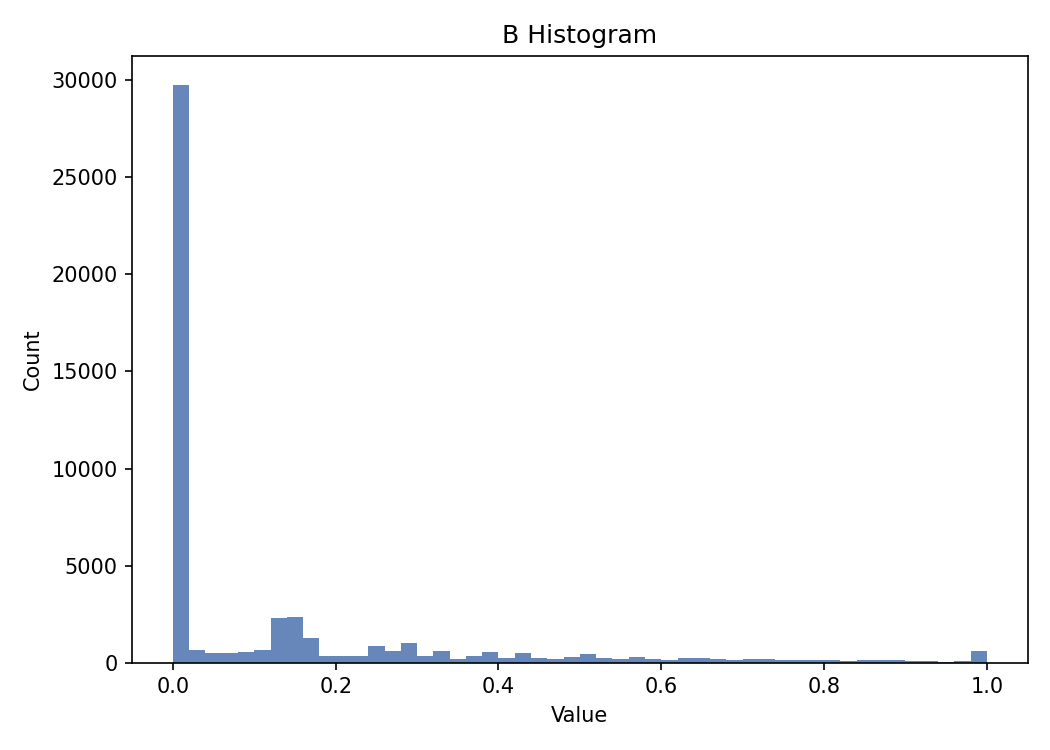
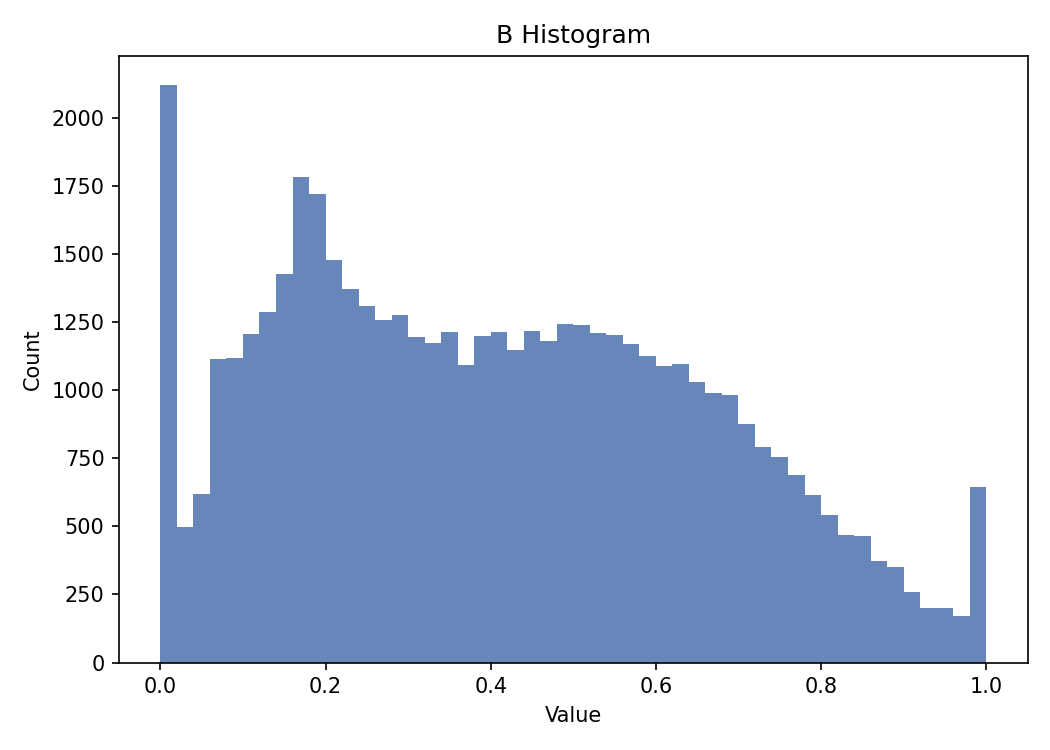
weight optimization

diff --git a/z.py b/z.py
@@ -51,7 +51,9 @@ def _to_full(scores: np.ndarray, indices: np.ndarray, n: int) -> np.ndarray:
     return full
 
 
-def _compute_components(proxy_log: Path) -> tuple[dict[str, np.ndarray], np.ndarray]:
+def _compute_components(
+    proxy_log: Path,
+) -> tuple[dict[str, np.ndarray], np.ndarray, np.ndarray, np.ndarray, np.ndarray]:
     absorption_res = AbsorptionEfficiencyScore(proxy_log).compute()
     informativeness_res = InformativenessScore(proxy_log).compute()
     coverage_res = CoverageGainScore(proxy_log).compute()
@@ -69,15 +71,21 @@ def _compute_components(proxy_log: Path) -> tuple[dict[str, np.ndarray], np.ndar
 
     n = absorption_res.labels.shape[0]
     a_full = _to_full(absorption_res.scores, absorption_res.indices, n)
+    a_raw_full = _to_full(absorption_res.raw_score, absorption_res.indices, n)
     b_full = _to_full(informativeness_res.scores, informativeness_res.indices, n)
+    b_raw_full = _to_full(informativeness_res.raw_score, informativeness_res.indices, n)
     c_full = _to_full(coverage_res.scores, coverage_res.indices, n)
     r_full = _to_full(risk_res.scores, risk_res.indices, n)
+    r_raw_full = _to_full(risk_res.raw_score, risk_res.indices, n)
 
     if (
         np.any(np.isnan(a_full))
+        or np.any(np.isnan(a_raw_full))
         or np.any(np.isnan(b_full))
+        or np.any(np.isnan(b_raw_full))
         or np.any(np.isnan(c_full))
         or np.any(np.isnan(r_full))
+        or np.any(np.isnan(r_raw_full))
     ):
         raise RuntimeError("Failed to align some dynamic scores to full index space (NaNs found).")
 
@@ -90,7 +98,28 @@ def _compute_components(proxy_log: Path) -> tuple[dict[str, np.ndarray], np.ndar
         "R": r_full.astype(np.float32),
         "u": u_norm.astype(np.float32),
     }
-    return components, absorption_res.labels.astype(np.int64)
+    return (
+        components,
+        a_raw_full.astype(np.float32),
+        b_raw_full.astype(np.float32),
+        r_raw_full.astype(np.float32),
+        absorption_res.labels.astype(np.int64),
+    )
+
+
+def _print_quantiles(values: np.ndarray, name: str) -> None:
+    quantiles = [0, 1, 5, 25, 50, 75, 95, 99, 100]
+    percentiles = np.percentile(values, quantiles)
+    print(f"\n{name} quantiles:")
+    for q, v in zip(quantiles, percentiles, strict=True):
+        print(f"  p{q:02d}: {v: .6f}")
+
+
+def _print_zero_one_counts(values: np.ndarray, name: str) -> None:
+    zero_count = int(np.sum(values == 0.0))
+    one_count = int(np.sum(values == 1.0))
+    print(f"{name} exact 0 count: {zero_count}")
+    print(f"{name} exact 1 count: {one_count}")
 
 
 def _rankdata(values: np.ndarray) -> np.ndarray:
@@ -132,7 +161,7 @@ def main() -> None:
     if not proxy_log.exists():
         raise FileNotFoundError(f"Proxy log not found: {proxy_log}")
 
-    arrays, labels = _compute_components(proxy_log)
+    arrays, a_raw, b_raw, r_raw, labels = _compute_components(proxy_log)
     num_samples = labels.shape[0]
     for key, values in arrays.items():
         if values.shape[0] != num_samples:
@@ -147,6 +176,15 @@ def main() -> None:
         fig.tight_layout()
         fig.savefig(out_dir / f"hist_{name}.png", dpi=150)
         plt.close(fig)
+
+    fig, ax = plt.subplots(figsize=(7, 5))
+    ax.hist(b_raw, bins=args.bins, color="#55A868", alpha=0.85)
+    ax.set_title("B_raw Histogram")
+    ax.set_xlabel("Value")
+    ax.set_ylabel("Count")
+    fig.tight_layout()
+    fig.savefig(out_dir / "hist_B_raw.png", dpi=150)
+    plt.close(fig)
 
     fig, axes = plt.subplots(2, 3, figsize=(12, 7))
     axes = axes.ravel()
@@ -166,6 +204,13 @@ def main() -> None:
 
     print(f"Loaded proxy log: {proxy_log}")
     print(f"Saved histogram plots to: {out_dir}")
+    _print_quantiles(arrays["A"], "A_score")
+    _print_quantiles(a_raw, "A_raw")
+    _print_quantiles(b_raw, "B_raw")
+    _print_quantiles(arrays["R"], "R_score")
+    _print_quantiles(r_raw, "R_raw")
+    _print_zero_one_counts(arrays["A"], "A_score")
+    _print_zero_one_counts(arrays["R"], "R_score")
     _print_corr_table(names, pearson, "Pearson Correlation")
     _print_corr_table(names, spearman, "Spearman Correlation")
 

diff --git a/weights/InformativenessScore.py b/weights/InformativenessScore.py
@@ -10,11 +10,7 @@ from typing import Optional
 
 import numpy as np
 
-from utils.score_utils import (
-    quantile_minmax_by_class,
-    resolve_window_length,
-    stable_sigmoid,
-)
+from utils.score_utils import quantile_minmax_by_class, resolve_window_length
 
 
 @dataclass
@@ -38,17 +34,11 @@ class InformativenessScore:
         self,
         npz_path: str | Path,
         *,
-        tau_g: float = 0.10,
-        s_g: float = 0.03,
-        tau_delta: float = 0.05,
         q_low: float = 0.01,
         q_high: float = 0.99,
         eps: float = 1e-8,
     ) -> None:
         self.npz_path = Path(npz_path)
-        self.tau_g = float(tau_g)
-        self.s_g = float(s_g)
-        self.tau_delta = float(tau_delta)
         self.q_low = float(q_low)
         self.q_high = float(q_high)
         self.eps = float(eps)
@@ -80,10 +70,6 @@ class InformativenessScore:
         return exp_shifted / (sum_exp + self.eps)
 
     def compute(self, proxy_logs: Optional[dict[str, np.ndarray]] = None) -> InformativenessResult:
-        if self.s_g <= 0.0:
-            raise ValueError("s_g must be positive.")
-        if self.tau_delta <= 0.0:
-            raise ValueError("tau_delta must be positive.")
         data = proxy_logs if proxy_logs is not None else np.load(self.npz_path)
         logits, labels, indices = self._load_logits(data)
 
@@ -100,17 +86,20 @@ class InformativenessScore:
         p_other_max = probs_other.max(axis=2)
         gap = p_true - p_other_max
 
-        alpha = stable_sigmoid((self.tau_g - gap) / self.s_g)
-
-        early_slice = slice(0, early_epochs)
         late_slice = slice(num_epochs - late_epochs, num_epochs)
 
-        hardness = alpha[late_slice].mean(axis=0).astype(np.float32)
-        delta_gap = (
-            gap[late_slice].mean(axis=0) - gap[early_slice].mean(axis=0)
-        ).astype(np.float32)
-        improve = stable_sigmoid(delta_gap / self.tau_delta)
-        raw_score = (hardness * improve).astype(np.float32)
+        gL = gap[late_slice].mean(axis=0)
+        mu_b = np.percentile(gL, 30)
+        sigma_b = 0.5 * (np.percentile(gL, 75) - np.percentile(gL, 25)) + self.eps
+        w = np.exp(-0.5 * ((gap - mu_b) / sigma_b) ** 2)
+
+        tau_p = 0.02
+        dp = gap[1:] - gap[:-1]
+        scaled_dp = dp / tau_p
+        softplus = np.log1p(np.exp(-np.abs(scaled_dp))) + np.maximum(scaled_dp, 0.0)
+        delta_pos = softplus * tau_p
+
+        raw_score = (w[:-1] * delta_pos).mean(axis=0).astype(np.float32)
 
         scores = quantile_minmax_by_class(
             raw_score, labels, q_low=self.q_low, q_high=self.q_high, eps=self.eps
@@ -119,16 +108,17 @@ class InformativenessScore:
         if not np.array_equal(indices, np.arange(len(indices))):
             order = np.argsort(indices)
             scores = scores[order]
-            hardness = hardness[order]
-            delta_gap = delta_gap[order]
+            gL = gL[order]
+            delta_pos = delta_pos[:, order]
             raw_score = raw_score[order]
             indices = indices[order]
             labels = labels[order]
 
         return InformativenessResult(
             scores=scores.astype(np.float32),
-            hardness=hardness,
-            delta_gap=delta_gap,
+            hardness=gL.astype(np.float32),
+            # hardness stores gL: late-window mean gap (boundary location proxy).
+            delta_gap=delta_pos.mean(axis=0).astype(np.float32),
             raw_score=raw_score,
             labels=labels,
             indices=indices,
